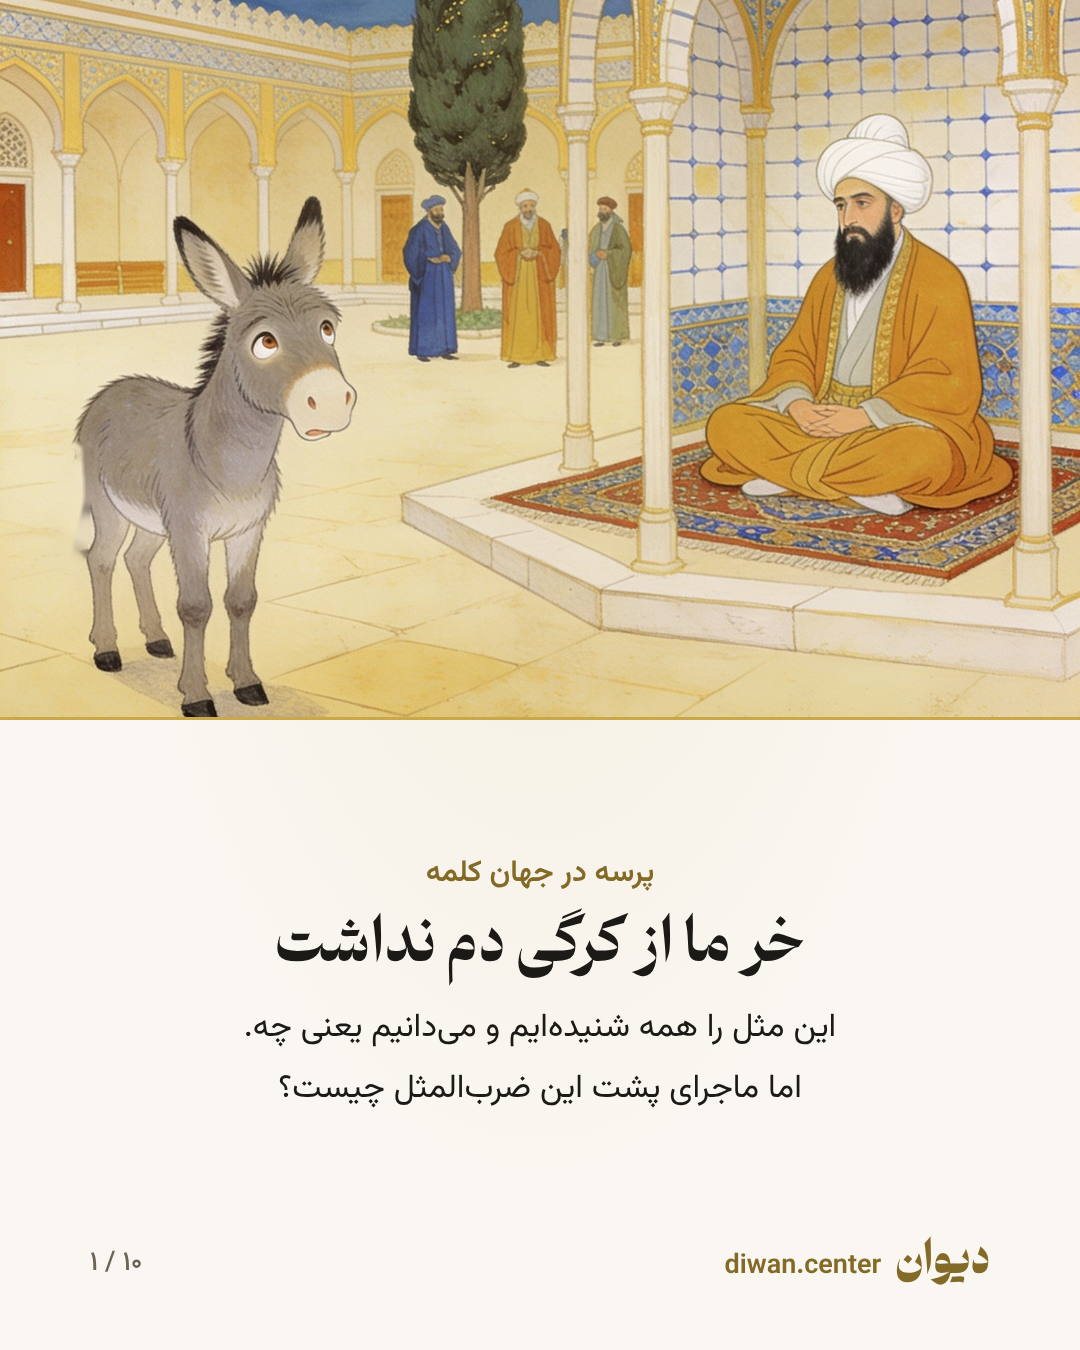
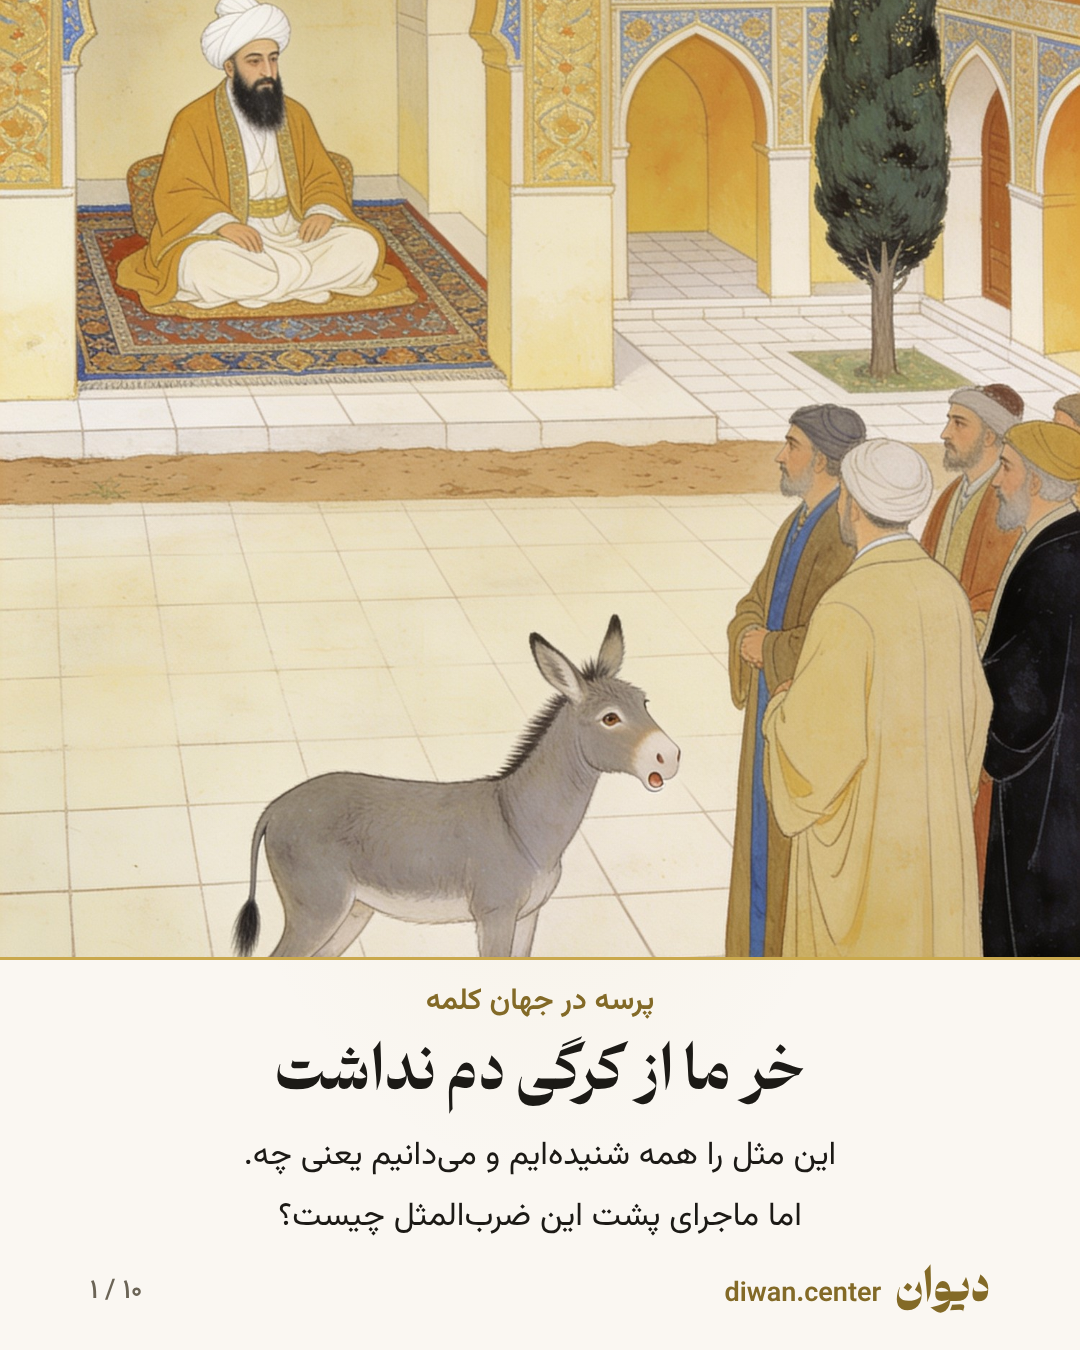
Proverb post14: cover uses the first miniature (donkey with tail)
Claude-Session: https://claude.ai/code/session_01KbXFhZ5gVHvAJQxmARukFF

diff --git a/tools/proverb/build.py b/tools/proverb/build.py
@@ -8,7 +8,7 @@ N=5
 XS=[1,2,4,5]
 K='پرسه در جهان کلمه'
 S=[
- dict(k='imgtext',kicker=K,img='assets/cover_art.jpg',pos='96%',title='خر ما از کرگی دم نداشت',body='این مثل را همه شنیدهایم و میدانیم یعنی چه.\nاما ماجرای پشت این ضربالمثل چیست؟'),
+ dict(k='imgtext',kicker=K,img='assets/cover_art.jpg',pos='59%',ih=1000,title='خر ما از کرگی دم نداشت',body='این مثل را همه شنیدهایم و میدانیم یعنی چه.\nاما ماجرای پشت این ضربالمثل چیست؟'),
  dict(k='text',kicker=K,title='دیوان بلخ',body='ریشهی مثل در حکایتهای «دیوان بلخ» است.\n«دیوان» اینجا یعنی دادگاه.\n\n«دیوان بلخ» را به دادگاهی میگویند\nکه حکمش با عدالت و منطق نمیخواند.'),
  dict(k='text',kicker=K,title='قصه چه بود؟',body='مردی میخواهد به صاحب خری کمک کند\nکه خرش در گل گیر کرده.\nخر آزاد میشود، ولی دمش کنده میشود.\n\nمرد فرار میکند\nو صاحب خر به دنبالش.'),
  dict(k='text',kicker=K,title='حوادث دیگر',body='مرد میگریزد و به خانهای میپرد:\nزنی باردار میترسد و بچهاش سقط میشود.\nاز بام میپرد و روی پیرمردِ بیماری میافتد\nو پیرمرد میمیرد.\nسر کوچه، چشم رهگذری یهودی کور میشود.\n\nهمه شاکی میشوند و دنبالش میافتند.'),
@@ -143,9 +143,9 @@ def html(i,s,plat):
         if wide:
             return f'<div class="slide"><div class="panel" style="--pad:44px 56px 40px">{kick()}<div class="main">{t}</div>{foot(i,plat)}</div><div class="imgp" style="background-image:url(../{s.get("imgw",s["img"])});background-position:{s.get("tpos","50%")} center;{("flex-basis:%dpx"%s["pw"][plat]) if s.get("pw") else ""}"></div></div>'
         # ig: image top, text bottom
-        ih=720
+        ih=s.get('ih',720)
         return (f'<div class="slide" style="flex-direction:column"><div style="height:{ih}px;background-image:url(../{s.get("imgw",s["img"])});background-size:cover;background-position:center {s.get("pos","50%")};border-bottom:3px solid #c9a84c"></div>'
-                f'<div class="panel" style="--pad:34px 90px 54px;--gap:14px">{kick()}<div class="main" style="--gap2:14px">{t}</div>{foot(i,plat)}</div></div>')
+                f'<div class="panel" style="--pad:18px 90px 26px;--gap:10px">{kick()}<div class="main" style="--gap2:14px">{t}</div>{foot(i,plat)}</div></div>')
     return f'<div class="slide">{frame}<div class="panel">{kick()}<div class="main">{inner}</div>{foot(i,plat)}</div></div>'
 def page(i,s,plat):
     # tweak: imgtext on IG uses smaller text sizes
